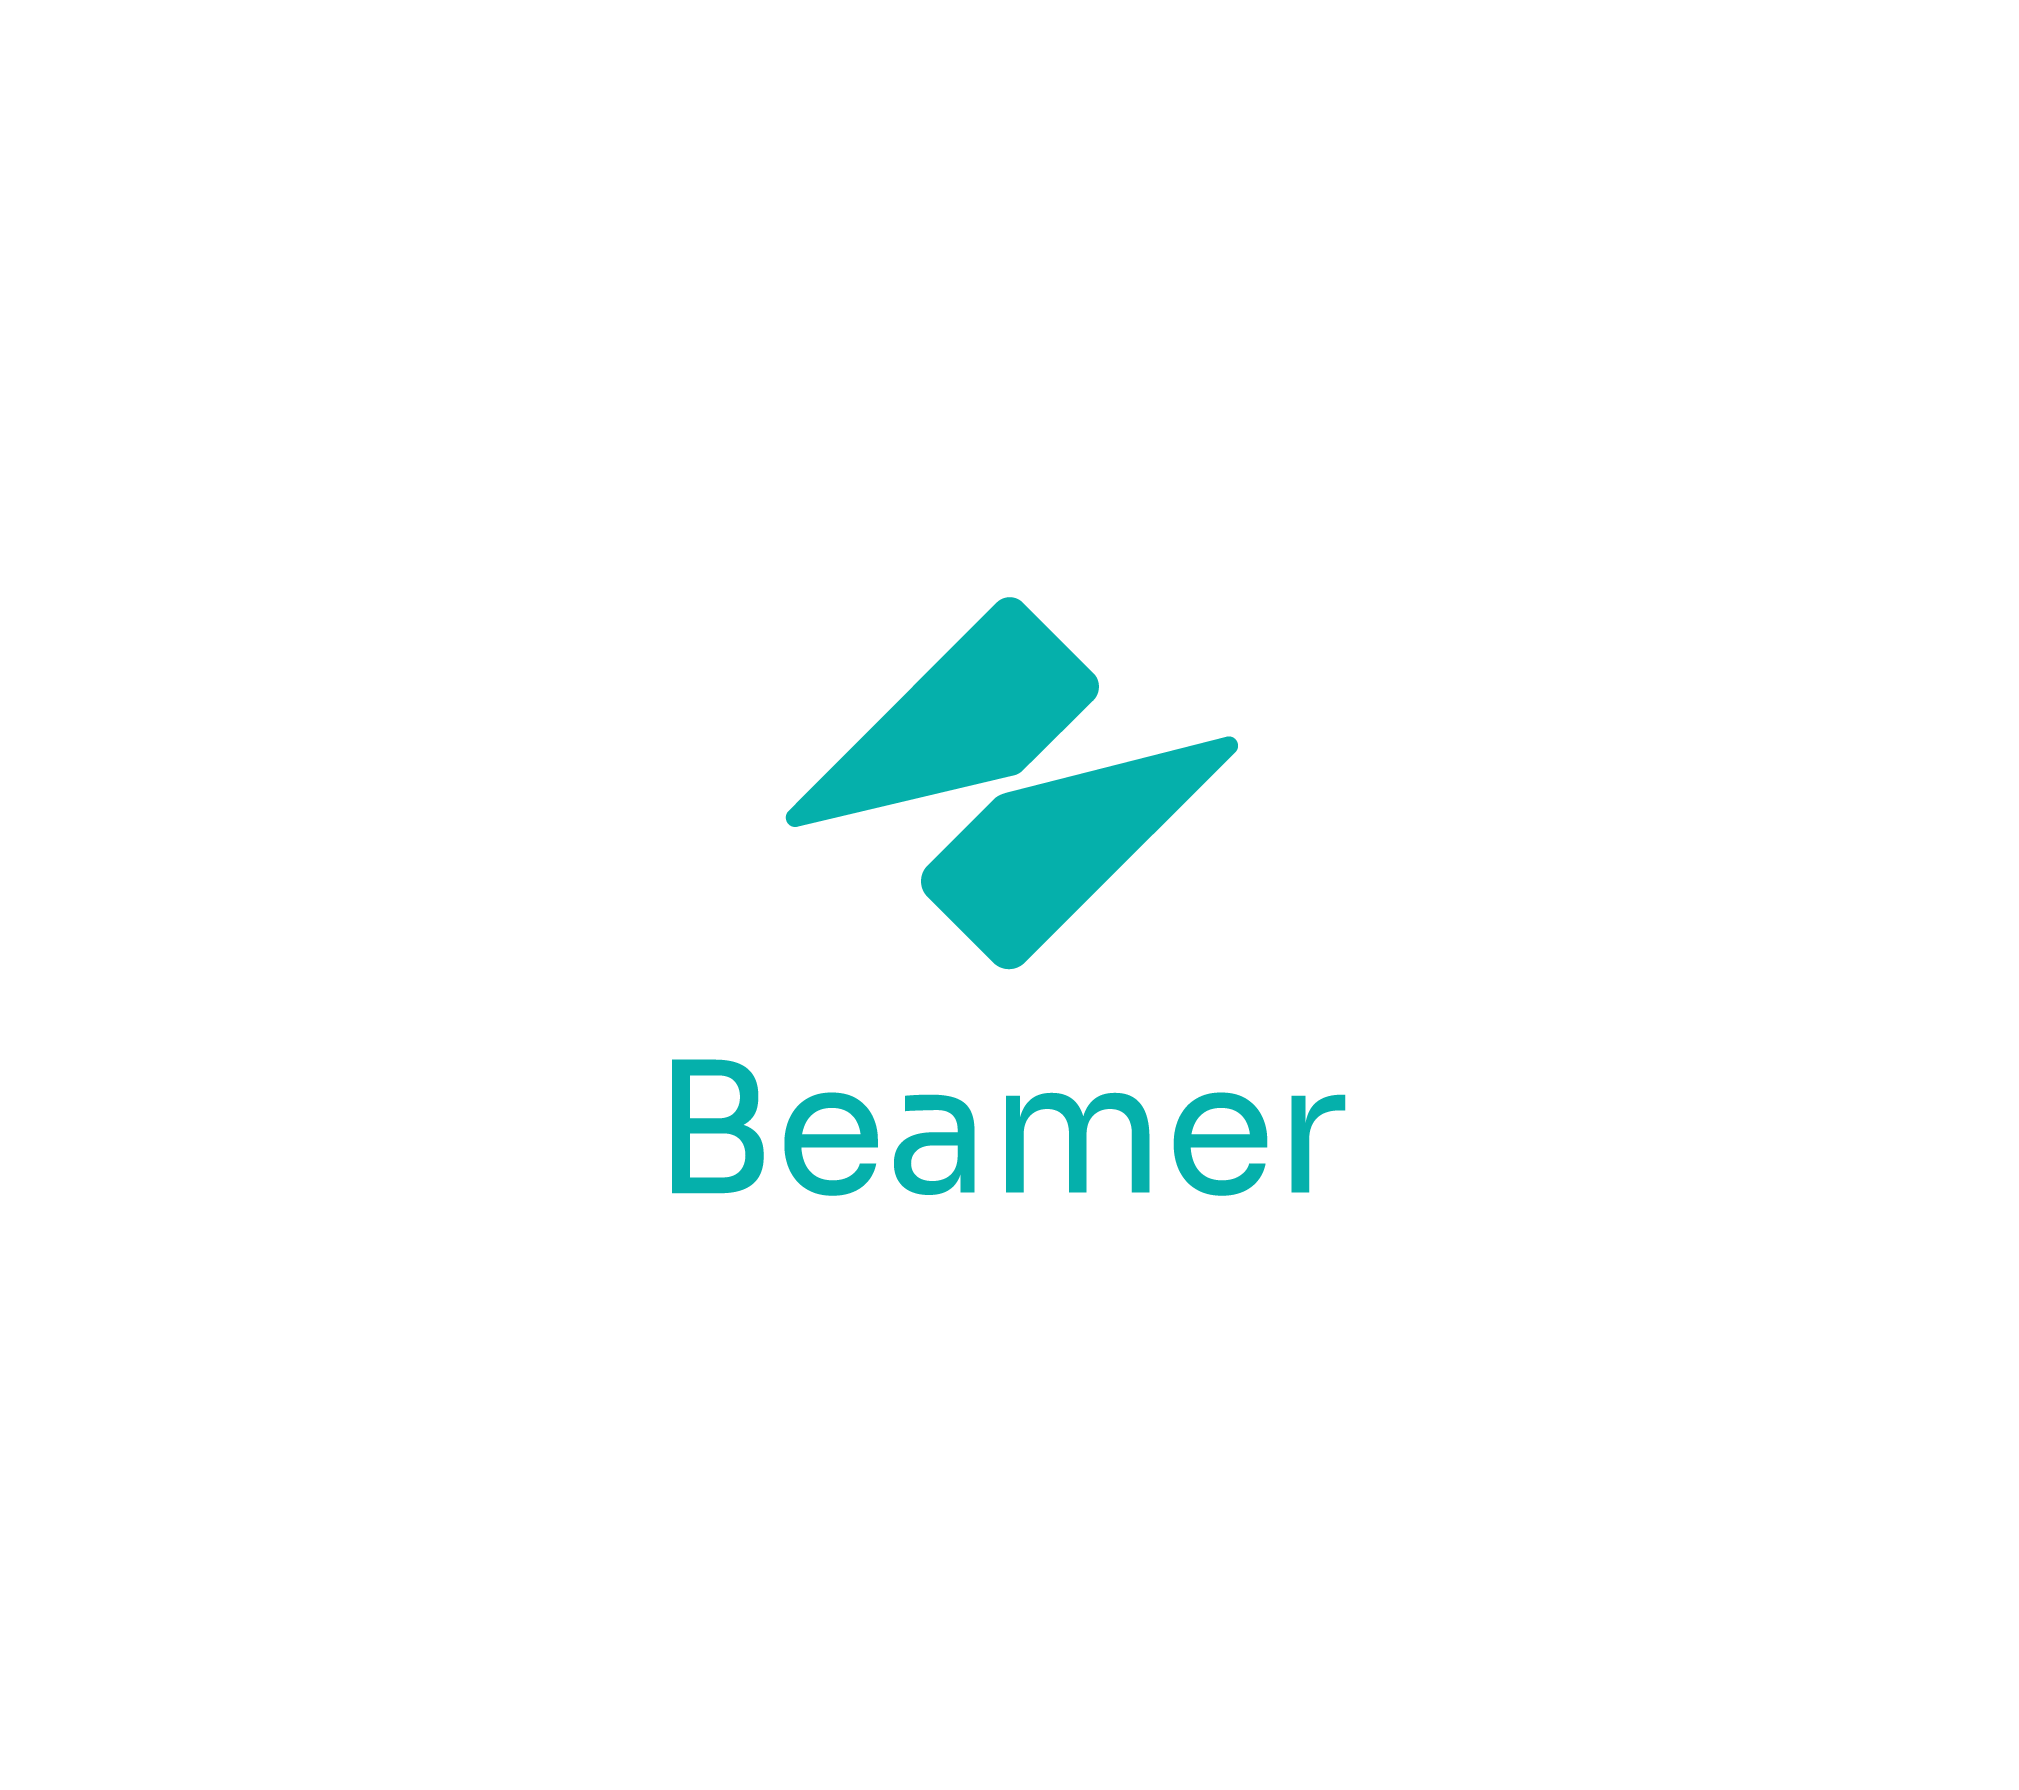
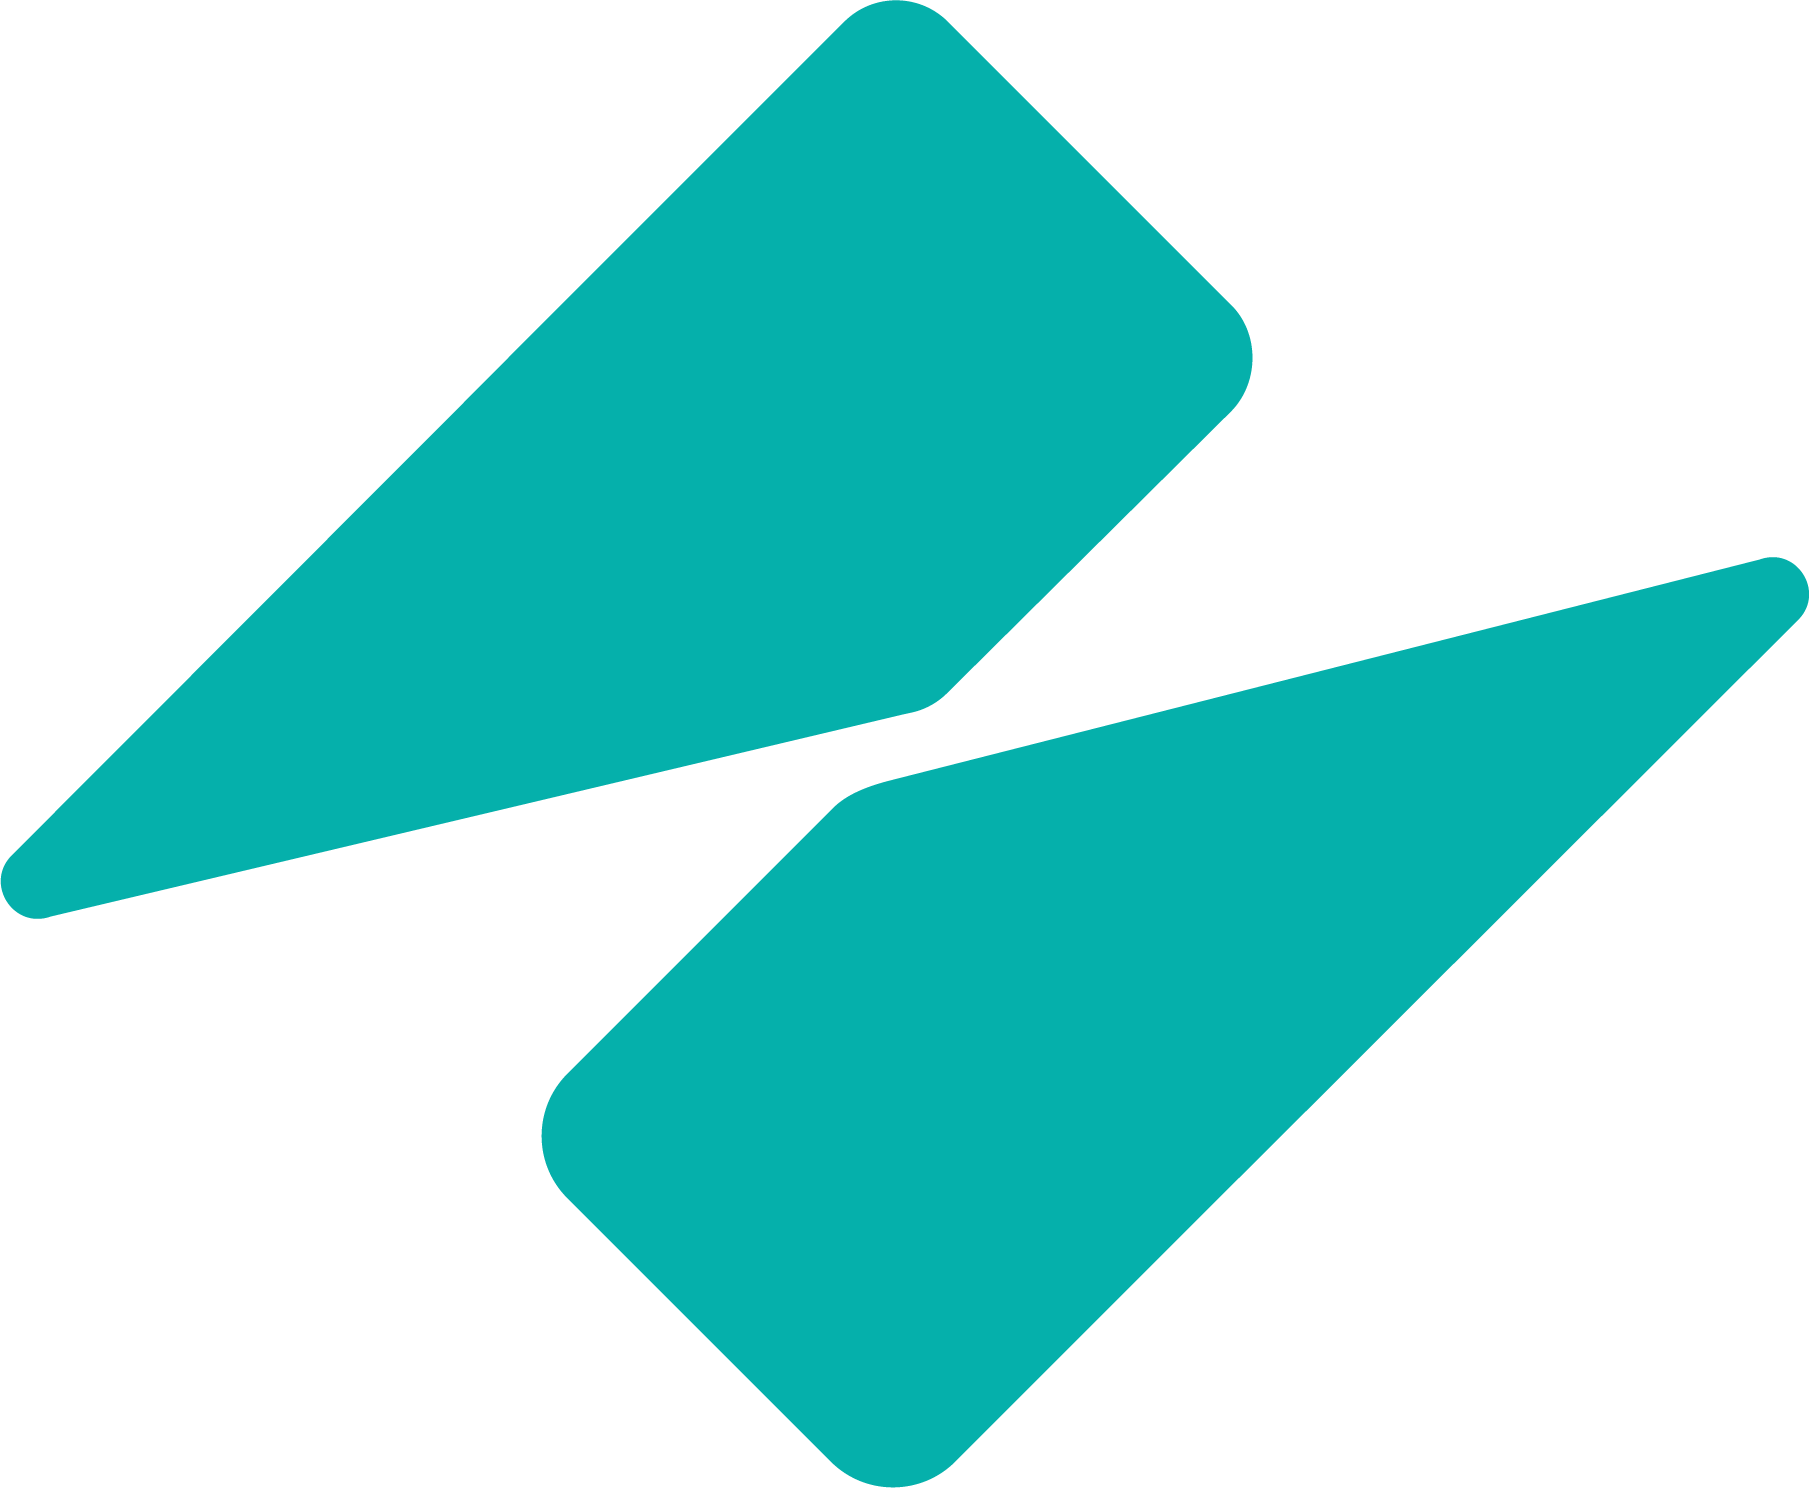
Edit beamer ecosystem entry (#411)
* Update project.list.js

We want to update the link to lead directly to the Beamer app now that we're live on Mainnet.

* Add files via upload

Replacement of Beamer Logo

diff --git a/packages/boba/gateway/src/containers/ecosystem/project.list.js b/packages/boba/gateway/src/containers/ecosystem/project.list.js
@@ -401,7 +401,7 @@ export const projectList = [
   {
      "title": "Beamer",
      "canLaunch": true,
-     "link": "https://www.beamerbridge.com/",
+     "link": "https://app.beamerbridge.com/",
      "twitter": "https://twitter.com/BeamerBridge",
      "discord": "https://discord.com/invite/uvTYkzsBdA",
      "type": "bridge",
